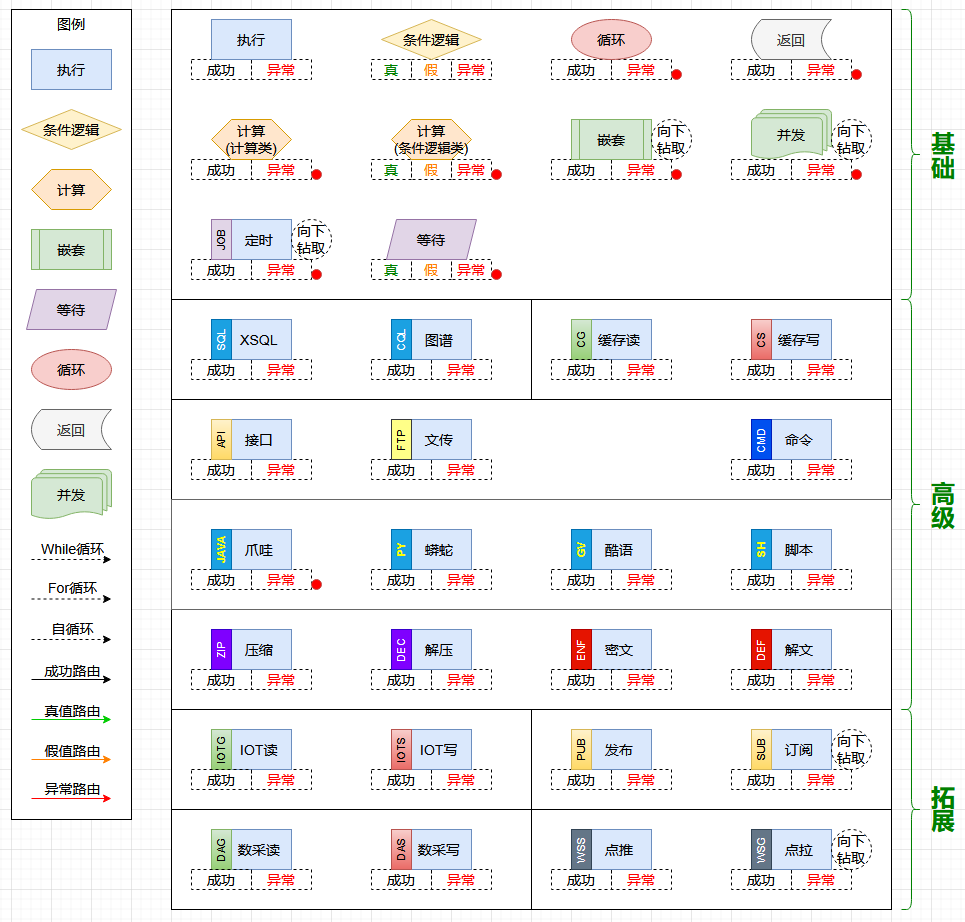
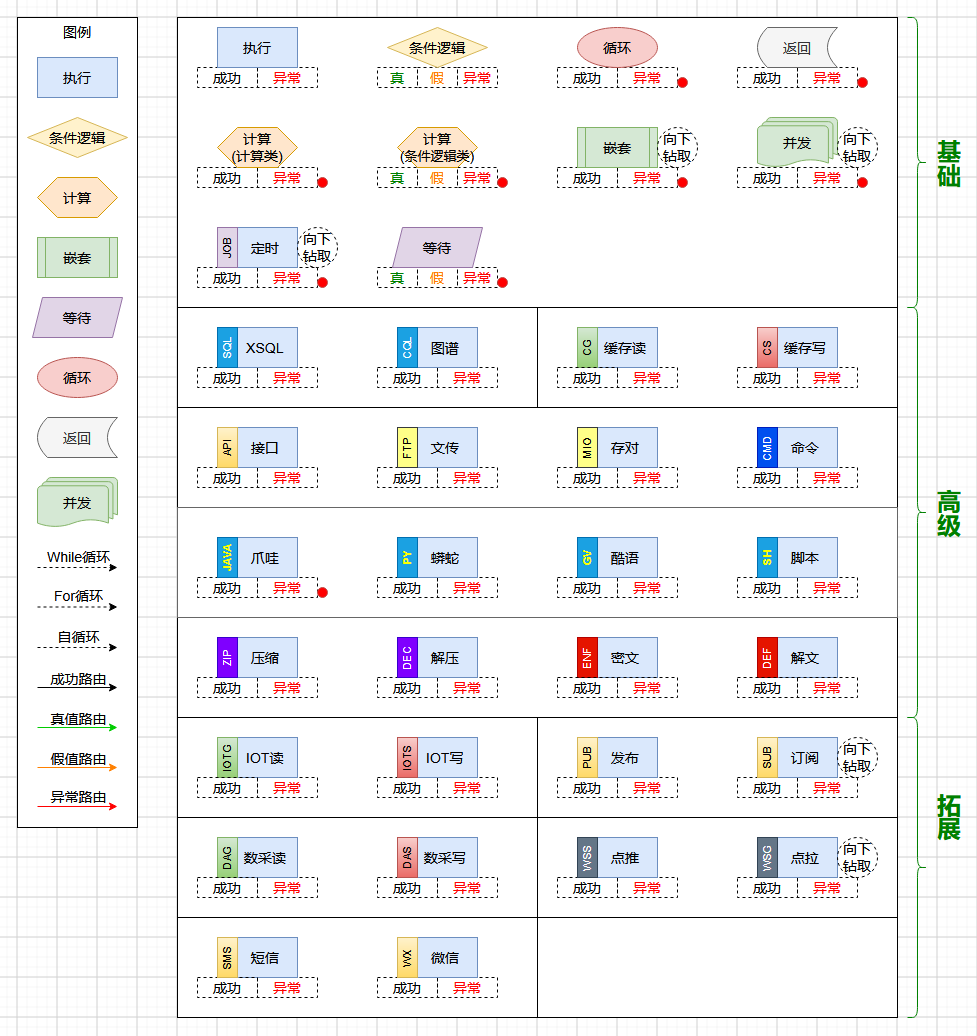
2.0.8
1. 文档：Minio的MIO存元素
2. 文档：SMS短信元素
3. 文档：WX微信元素

diff --git a/README.md b/README.md
@@ -4882,7 +4882,7 @@ ExecuteResult       v_Result  = CallFlow.execute(v_Ftp ,v_Context);
 
 __编排图例演示__
 
-![image](src/test/java/org/hy/common/callflow/junit/cflow047Minio/JU_CFlow039.png)
+![image](src/test/java/org/hy/common/callflow/junit/cflow047Minio/JU_CFlow047.png)
 
 __编排配置__
 